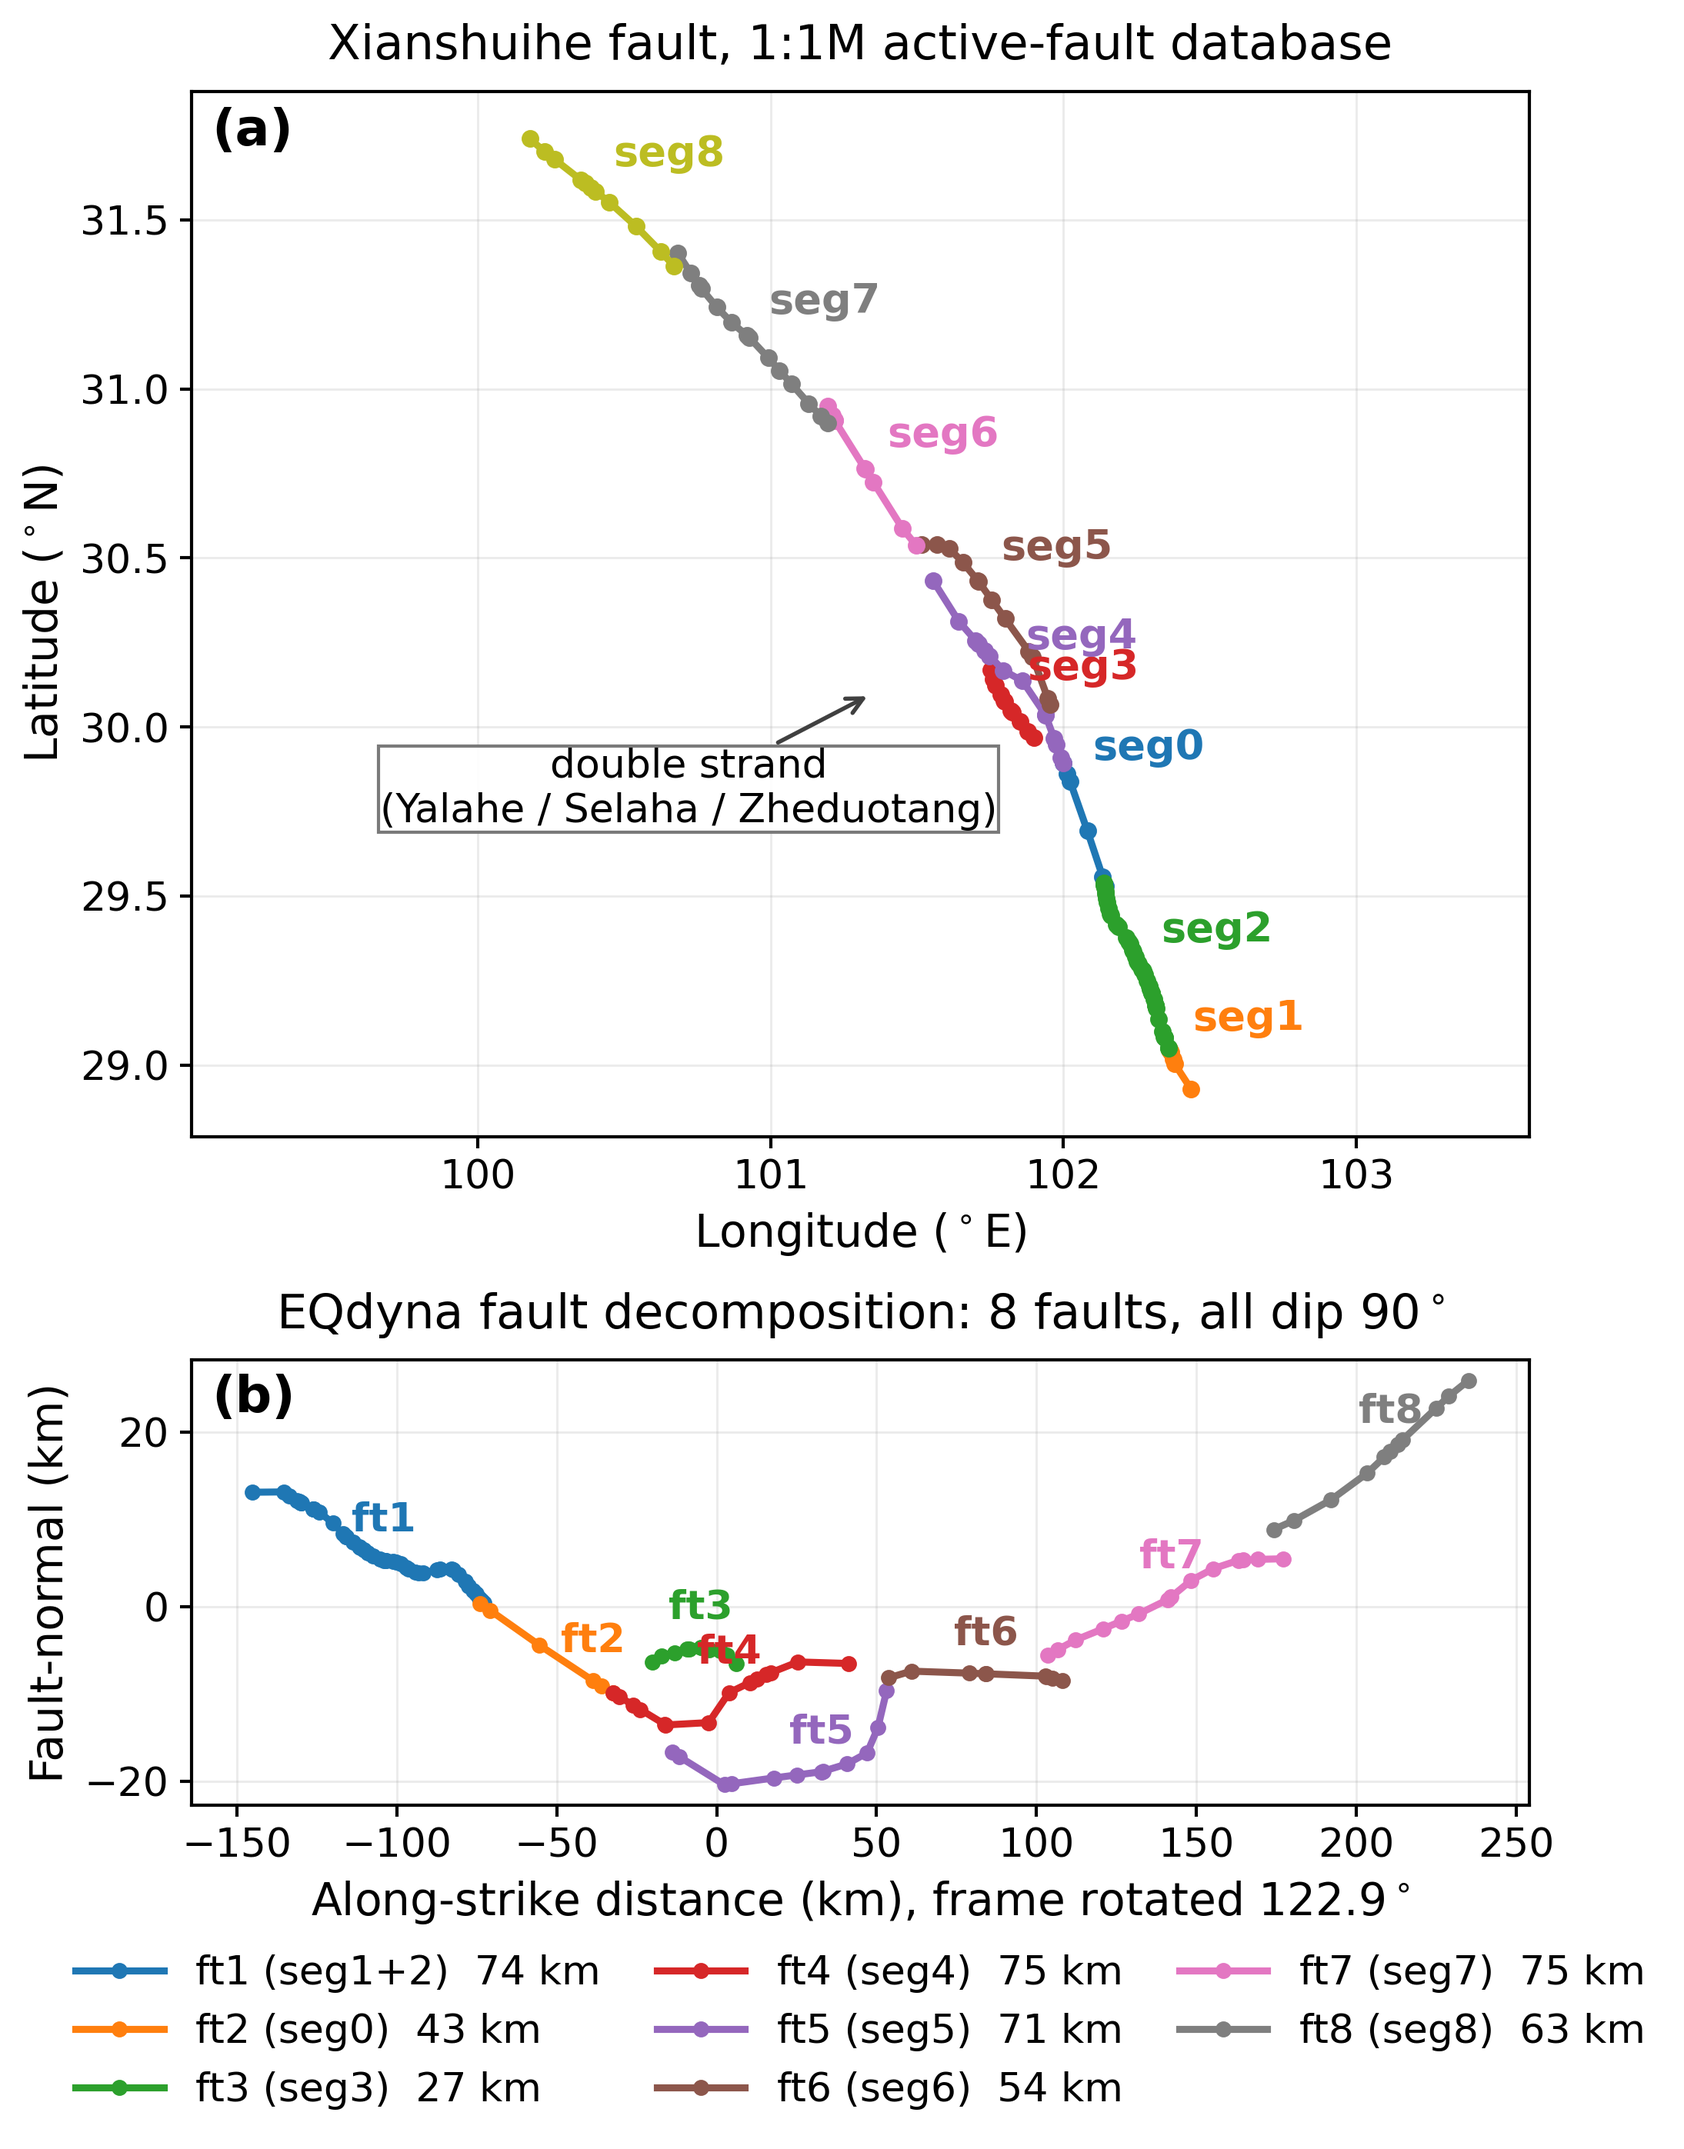
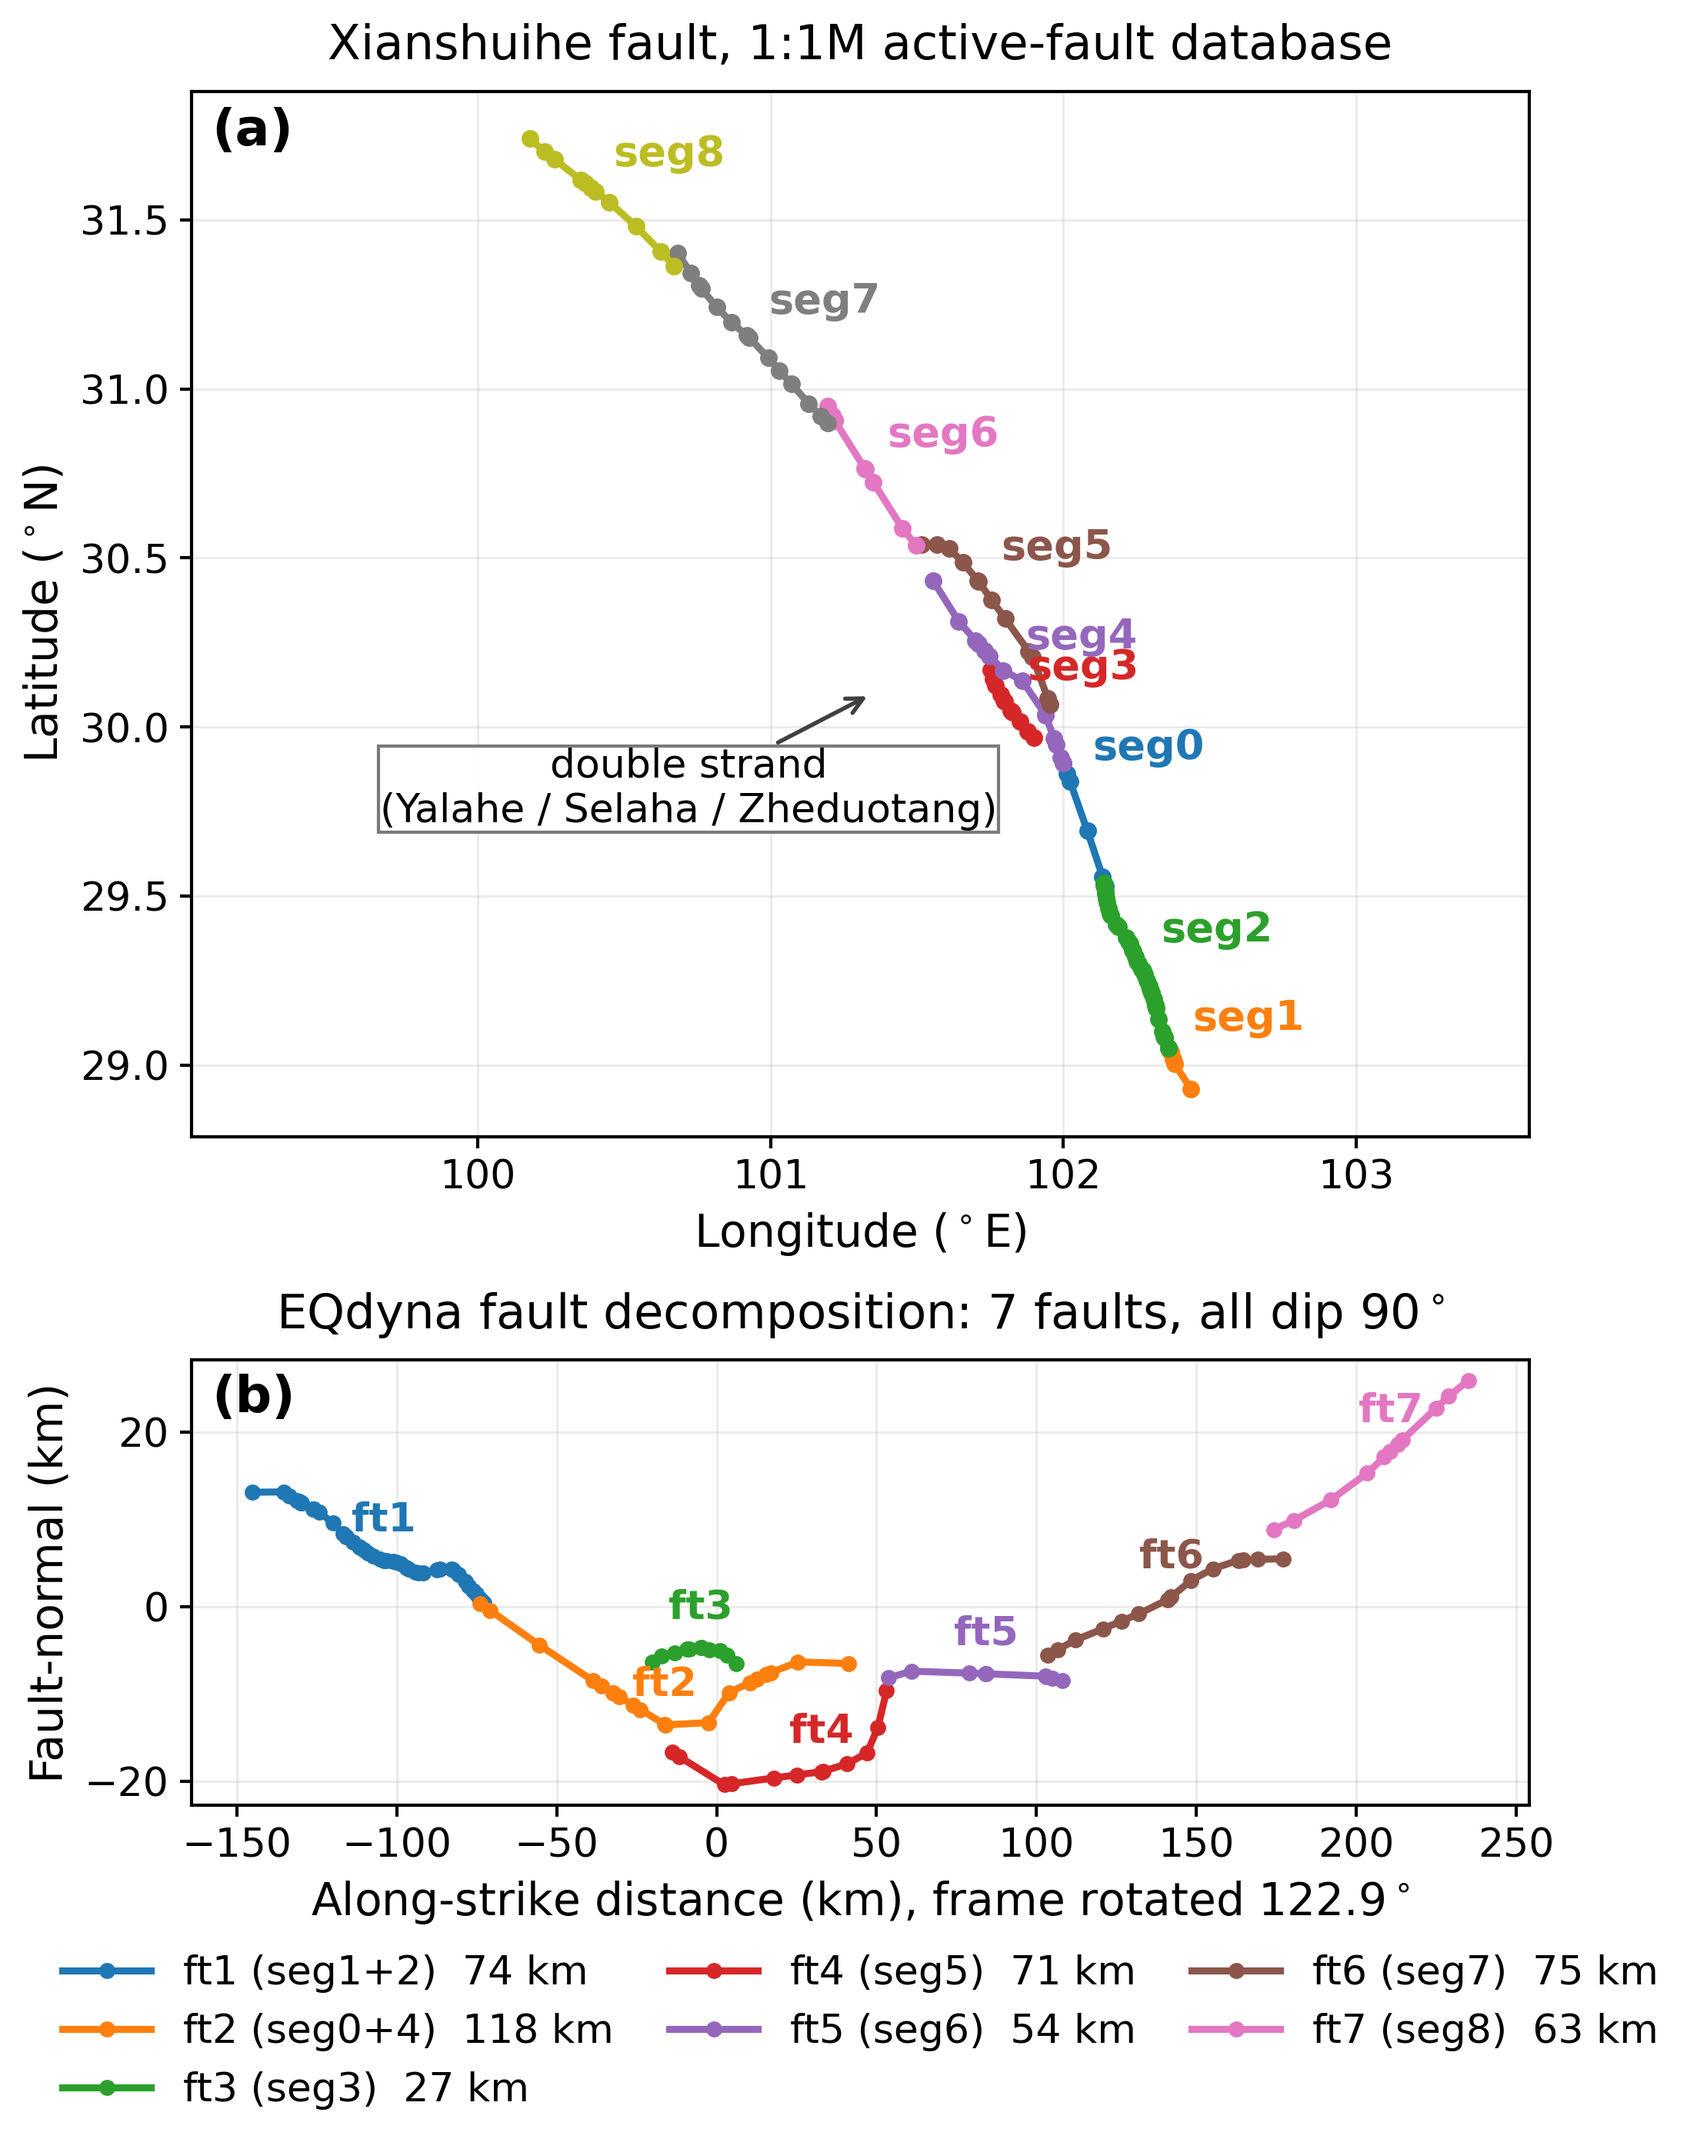
xianshuihe: merge seg0+seg4; add reusable pre-mesh geometry check
seg0 and seg4 shared an endpoint at exactly 0.000 km. As separate faults
that hands gmsh two surfaces meeting at a single node, which welds them or
degenerates an element there. seg4 is the continuation of seg0 into the
splay zone, so merging is also the right reading of the structure. Seven
faults now; the next-closest approach is 0.53 km (ft1-ft2), above the
0.40 km element size, and every fault carries 66-294 nodes at dxy=400 m.

Adds scripts/check_fault_geometry.py. Building a compset from a raw trace
surfaces the same decisions every time, and none can be inferred from the
data -- they showed up here only because the distances were checked by
hand. The script reports them up front rather than letting them appear as
a gmsh failure or an under-resolved fault mid-run:

  RESOLUTION   fault shorter than 40 elements cannot host a resolved
               rupture (the nucleation patch alone is ~2 km radius)
  SHARED NODE  closest approach ~0: gmsh welds or degenerates
  SUB-ELEMENT  two faults closer than one dxy are not separable

Nothing is auto-fixed; every finding is a modelling decision. Reusable
across compsets -- it takes a directory of two-column fault files, or
check_geometry() can be imported. On the merged Xianshuihe it now reports
no findings.

Claude-Session: https://claude.ai/code/session_01RE3FJYuABNM93XESxYXkRp

diff --git a/scripts/check_fault_geometry.py b/scripts/check_fault_geometry.py
@@ -1,0 +1,124 @@
+#!/usr/bin/env python3
+"""Pre-mesh geometry check for a new fault system.
+
+Building a compset from a raw fault trace surfaces the same handful of
+decisions every time, and each one needs a human call -- they cannot be
+inferred from the data. This reports them up front instead of letting them
+appear as a gmsh failure, a welded junction, or an under-resolved fault
+halfway through a run.
+
+Checks, in the order they bite:
+
+  RESOLUTION   faults shorter than MIN_NODES * dxy carry too few nodes to
+               host a rupture. The nucleation patch alone is ~2 km radius in
+               the SAF setup, so a fault of a few element widths cannot
+               nucleate meaningfully. Fix: merge into a neighbour, or drop.
+
+  SHARED NODE  two faults whose closest approach is ~0 share a point. gmsh
+               will weld them or emit a degenerate element there. Fix: merge
+               them, or pull them apart deliberately.
+
+  SUB-ELEMENT  two faults closer than one dxy are not resolvable as separate
+               surfaces -- they interact within a single element. Fix: merge,
+               refine dxy locally, or accept and document.
+
+  STEP-OVER    junction separations above the cut-off are real structure
+               (barriers, releasing/restraining bends) and should be
+               preserved, not closed. Reported for information.
+
+Nothing here is auto-fixed. Every finding is a modelling decision.
+
+Usage:
+    python3 check_fault_geometry.py --dir DIR [--dxy 400] [--pattern '*.txt']
+
+    DIR holds one two-column (x y, km) text file per fault. Or import
+    `check_geometry(faults_km, dxy_m)` and pass arrays directly.
+"""
+
+from __future__ import annotations
+
+import argparse
+import glob
+import os
+import sys
+
+import numpy as np
+
+# A fault shorter than this many elements cannot host a resolved rupture.
+MIN_NODES = 40
+
+# Closest approach below this is treated as a shared node, in km.
+SHARED_NODE_KM = 0.01
+
+
+def polyline_length_km(p: np.ndarray) -> float:
+    return float(np.sum(np.hypot(*np.diff(p, axis=0).T)))
+
+
+def min_distance_km(a: np.ndarray, b: np.ndarray) -> float:
+    return float(min(np.hypot(*(b - p).T).min() for p in a))
+
+
+def check_geometry(faults: dict[str, np.ndarray], dxy_m: float) -> list[tuple[str, str]]:
+    """Return [(severity, message), ...]. severity is BLOCK, DECIDE or INFO."""
+    findings: list[tuple[str, str]] = []
+    dxy_km = dxy_m / 1000.0
+
+    for name, p in faults.items():
+        L = polyline_length_km(p)
+        n = int(L / dxy_km)
+        if n < MIN_NODES:
+            findings.append(("DECIDE",
+                             f"RESOLUTION  {name}: {L:.1f} km = {n} nodes at dxy={dxy_m:.0f} m "
+                             f"(< {MIN_NODES}). Merge into a neighbour, or drop."))
+
+    names = list(faults)
+    for i, a in enumerate(names):
+        for b in names[i + 1:]:
+            d = min_distance_km(faults[a], faults[b])
+            if d <= SHARED_NODE_KM:
+                findings.append(("BLOCK",
+                                 f"SHARED NODE {a}-{b}: closest approach {d:.4f} km. "
+                                 f"gmsh will weld these or degenerate an element. "
+                                 f"Merge them, or separate them deliberately."))
+            elif d < dxy_km:
+                findings.append(("DECIDE",
+                                 f"SUB-ELEMENT {a}-{b}: {d:.3f} km apart, under one "
+                                 f"element ({dxy_km:.3f} km). Not resolvable as separate "
+                                 f"surfaces. Merge, refine locally, or accept and document."))
+    return findings
+
+
+def main() -> None:
+    ap = argparse.ArgumentParser(description=__doc__,
+                                 formatter_class=argparse.RawDescriptionHelpFormatter)
+    ap.add_argument("--dir", required=True, help="Directory of two-column (x y, km) fault files")
+    ap.add_argument("--pattern", default="*.txt", help="Glob for fault files (default *.txt)")
+    ap.add_argument("--dxy", type=float, default=400.0, help="Element size in m (default 400)")
+    args = ap.parse_args()
+
+    paths = sorted(glob.glob(os.path.join(args.dir, args.pattern)))
+    if not paths:
+        sys.exit(f"error: no files matching {args.pattern} in {args.dir}")
+    faults = {os.path.splitext(os.path.basename(p))[0]: np.loadtxt(p) for p in paths}
+
+    print(f"{len(faults)} faults, dxy = {args.dxy:.0f} m\n")
+    for name, p in faults.items():
+        L = polyline_length_km(p)
+        print(f"  {name:<8} {L:7.1f} km  {int(L / (args.dxy / 1000.0)):5d} nodes")
+
+    findings = check_geometry(faults, args.dxy)
+    print()
+    if not findings:
+        print("No geometry findings. Nothing needs a decision before meshing.")
+        return
+    for severity in ("BLOCK", "DECIDE", "INFO"):
+        for sev, msg in findings:
+            if sev == severity:
+                print(f"[{sev:>6}] {msg}")
+    if any(s == "BLOCK" for s, _ in findings):
+        sys.exit(1)
+
+
+if __name__ == "__main__":
+    main()

diff --git a/compset/xianshuihe.gmsh.lite/plot_fault_trace.py b/compset/xianshuihe.gmsh.lite/plot_fault_trace.py
@@ -53,11 +53,21 @@ R_EARTH_KM = 6371.0
 # map_step_overs.py to measure the junction step-overs between them.
 THROUGH_GOING_ORDER = [1, 2, 0, 4, 6, 7, 8]
 
-# Polylines that form one fault. seg1 and seg2 meet at 0.26 km -- a
-# digitisation break, not a step-over -- and seg1 alone is only 15 km, near
-# the resolution floor at dxy = 400 m, so they are merged. Every other
-# polyline stands alone. Groups are ordered SE -> NW by assign_fault_ids().
-MERGE_GROUPS = [[1, 2], [0], [3], [4], [5], [6], [7], [8]]
+# Polylines that form one fault. Two merges, both forced by the geometry:
+#
+#   seg1 + seg2  meet at 0.26 km -- a digitisation break, not a step-over --
+#                and seg1 alone is only 15 km, near the resolution floor at
+#                dxy = 400 m (~38 nodes).
+#   seg0 + seg4  share an endpoint at EXACTLY 0.000 km. As separate faults
+#                they would hand gmsh two surfaces meeting at a single node,
+#                which welds or degenerates there. seg4 is the continuation
+#                of seg0 into the splay zone, so merging is also the right
+#                reading of the structure.
+#
+# Every other polyline stands alone; the next-closest approach is 1.62 km
+# (seg5-seg6), comfortably more than one element width.
+# Groups are ordered SE -> NW by assign_fault_ids().
+MERGE_GROUPS = [[1, 2], [0, 4], [3], [5], [6], [7], [8]]
 
 # All faults are vertical: the Xianshuihe is left-lateral strike-slip, and
 # Qiao et al. (2022) Fig. 4e put the dip at 75-90 deg over the Xianshuihe
